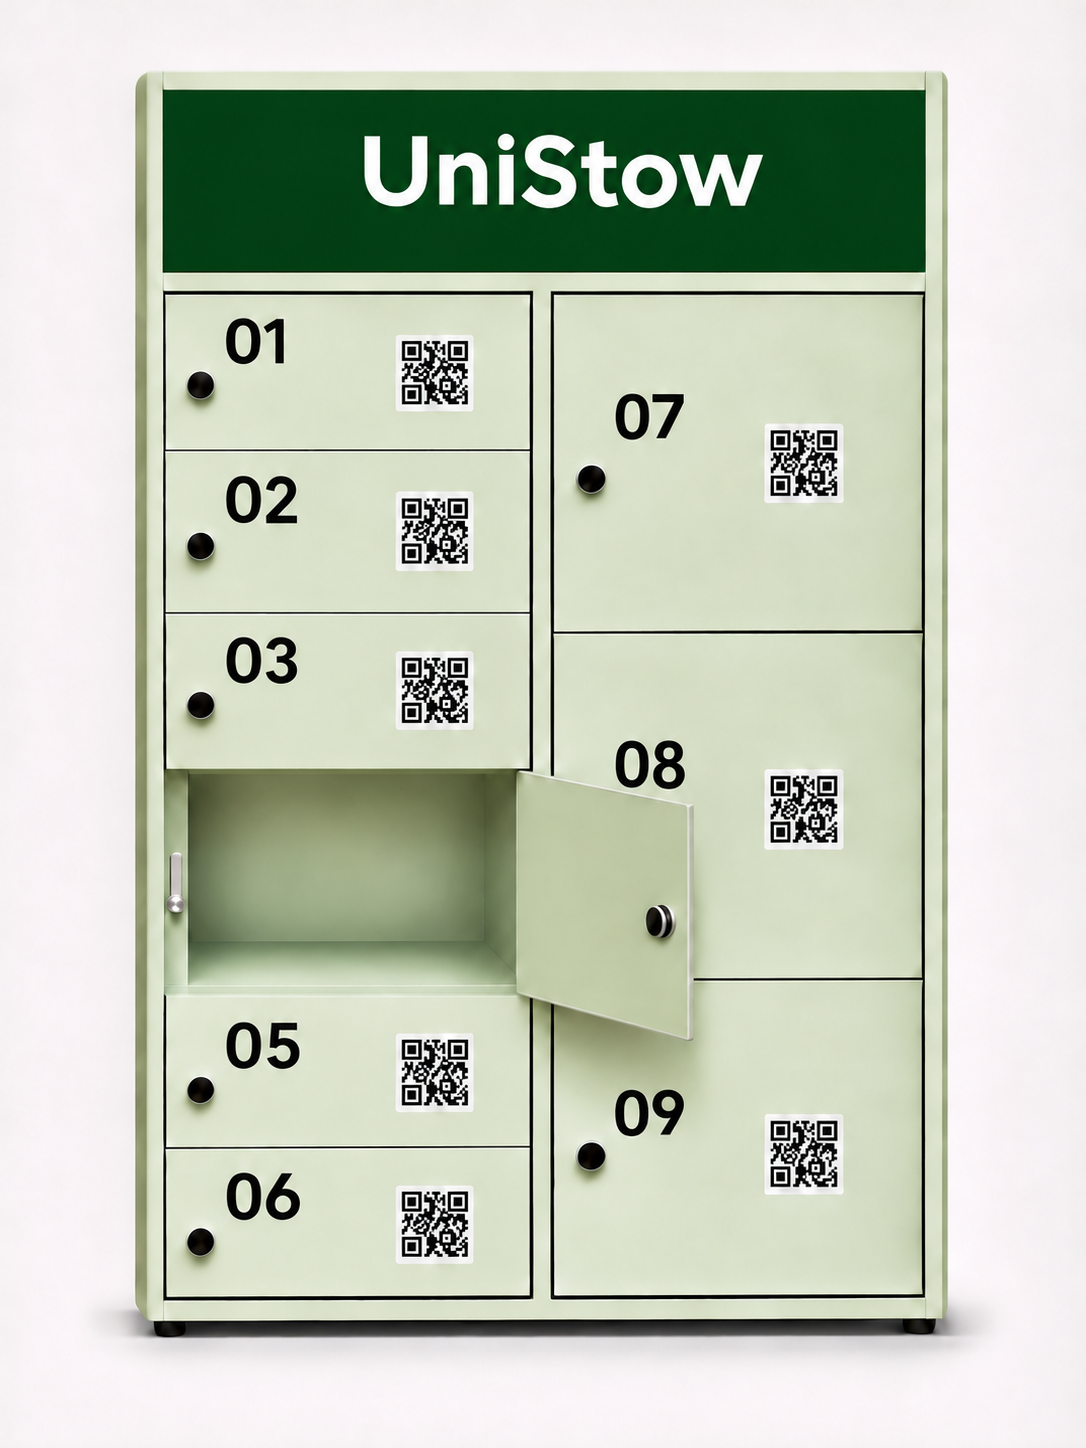
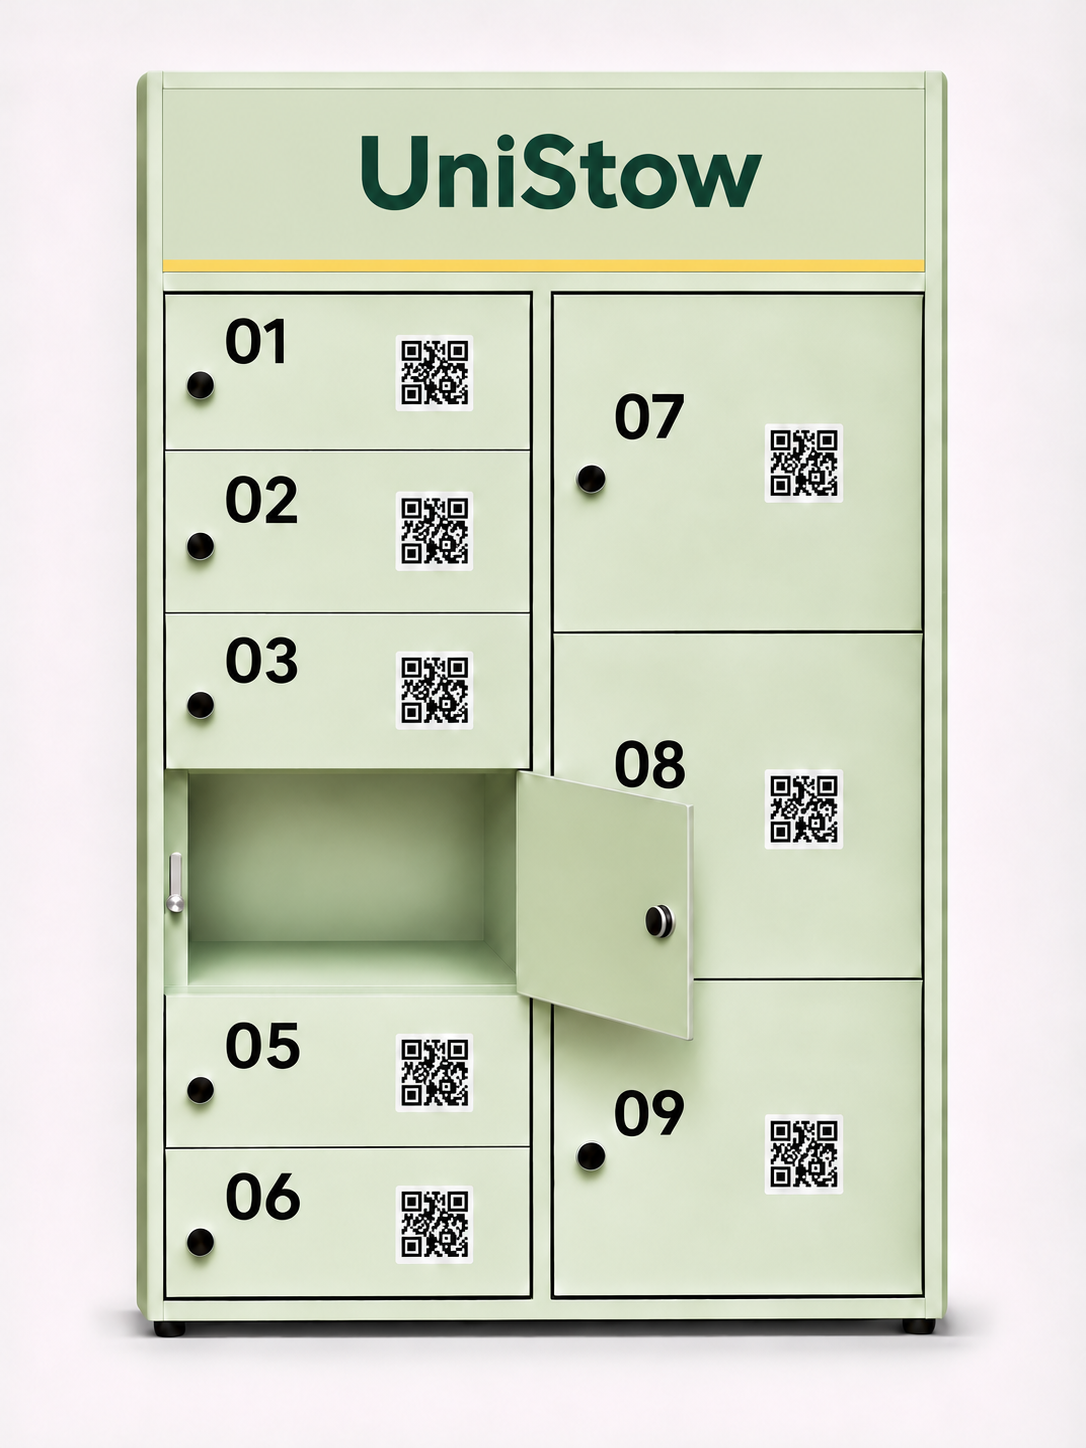
Match the website and prototype in pale green
Replace mint with pale green across the website palette,
favicon and browser theme. Restyle the prototype sign
while preserving the cabinet colour and yellow accents.

diff --git a/frontend/templates/layouts/layout.html b/frontend/templates/layouts/layout.html
@@ -3,7 +3,7 @@
 <head>
     <meta charset="UTF-8">
     <meta content="width=device-width, initial-scale=1.0" name="viewport">
-    <meta content="#64DEA5" name="theme-color">
+    <meta content="#D9E2C5" name="theme-color">
     <link href="{{ url_for('static', path='unistow.svg') }}" rel="icon" type="image/svg+xml">
     <title>{{ title }}</title>
     <link href="{{ url_for('static', path='css/main.css') }}?v=7" rel="stylesheet">

diff --git a/frontend/static/css/main.css b/frontend/static/css/main.css
@@ -6,14 +6,14 @@
     color: var(--ink);
     background: var(--green);
     font-synthesis: none;
-    --green: #64dea5;
+    --green: #d9e2c5;
     --ink: #183b35;
     --supporting: #425e50;
     --sand: #f5d76e;
-    --mint-soft: #d7f5e6;
+    --mint-soft: #edf2e3;
     --yellow-soft: #fff2ba;
-    --surface: #f8fcf9;
-    --page: #e7f2ec;
+    --surface: #fafbf6;
+    --page: #eef1e7;
     --focus: #27674b;
 }
 
